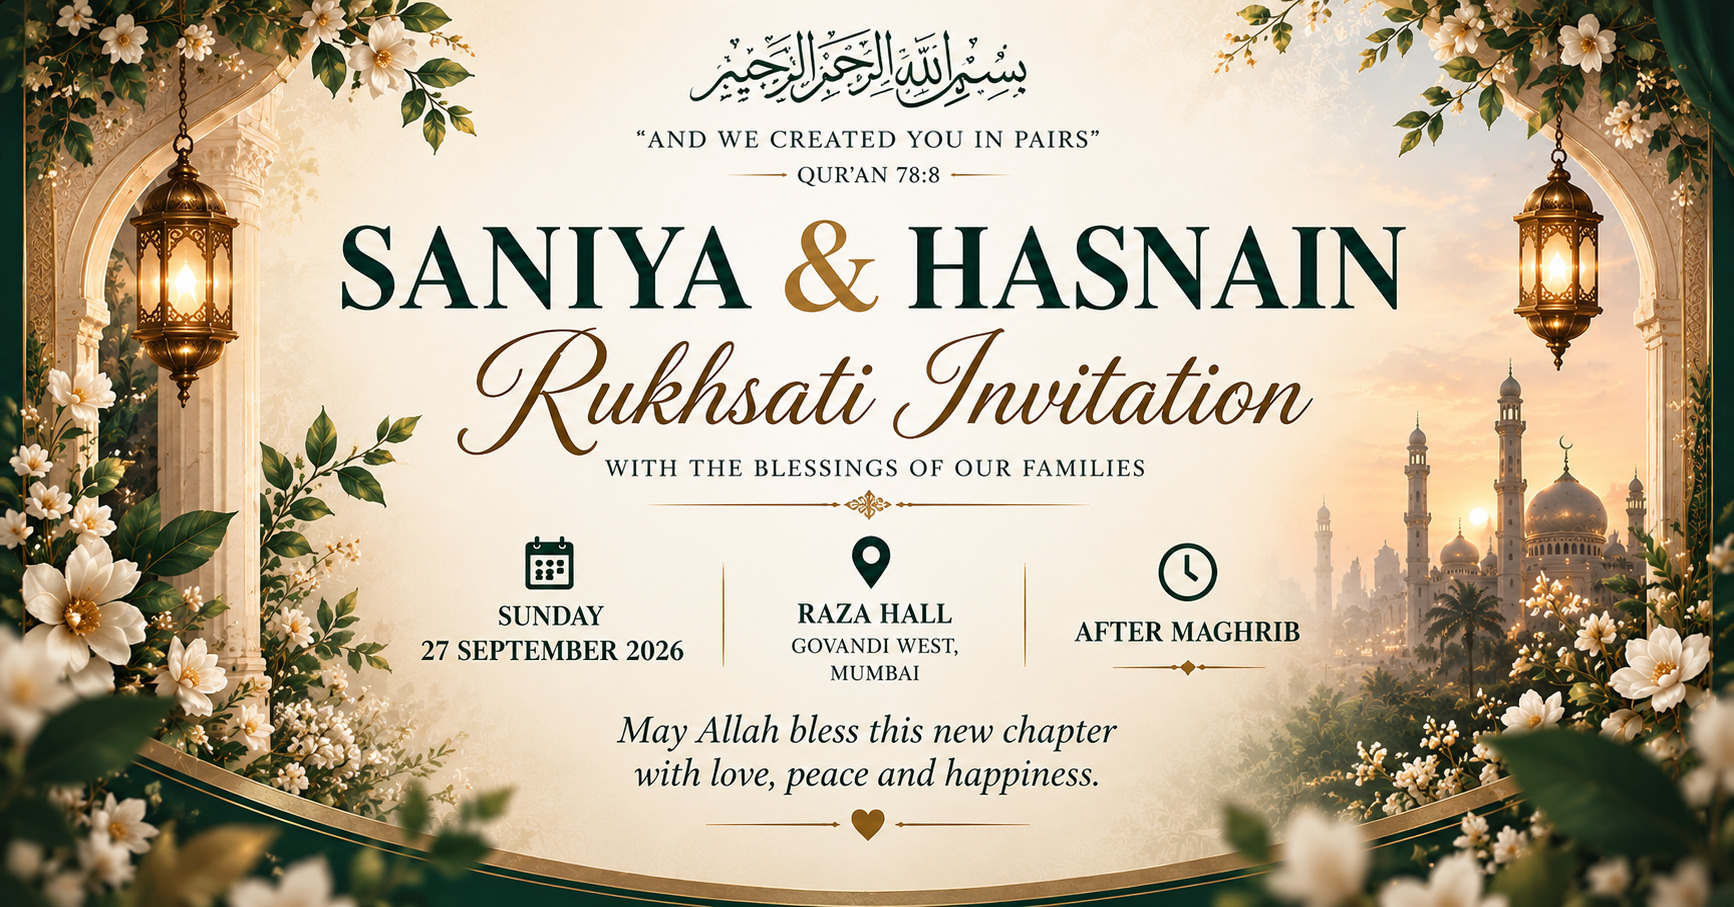
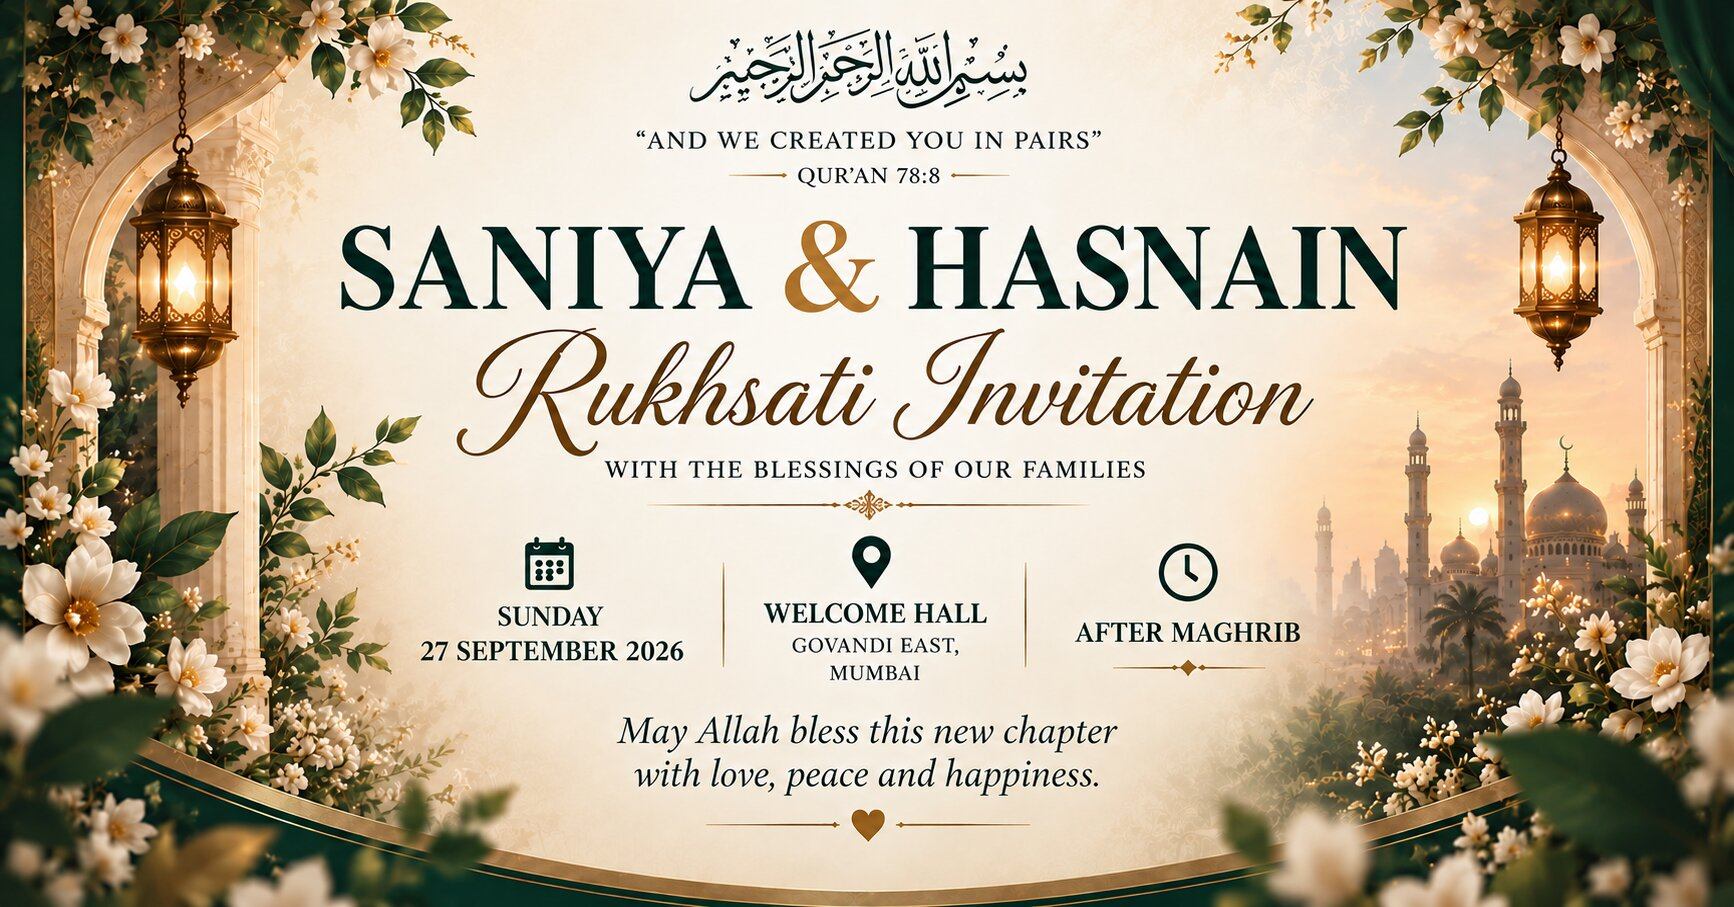
Updated Link Card

diff --git a/app/layout.tsx b/app/layout.tsx
@@ -9,13 +9,13 @@ export const metadata: Metadata = {
   title: 'SANIYA & HASNAIN — Rukhsati',
 
   description:
-    '27 September 2026 • Welcome Hall, Govandi East, Mumbai • Rukhsati after Maghrib.',
+    '27 September 2026 • Welcome Hall, Govandi East, Mumbai • Rukhsati Event after Maghrib.',
 
   openGraph: {
     title: 'SANIYA & HASNAIN — Rukhsati',
 
     description:
-      '27 September 2026 • Welcome Hall, Govandi East, Mumbai • Rukhsati after Maghrib.',
+      '27 September 2026 • Welcome Hall, Govandi East, Mumbai • Rukhsati Event after Maghrib.',
 
     url: SITE_URL,
 
